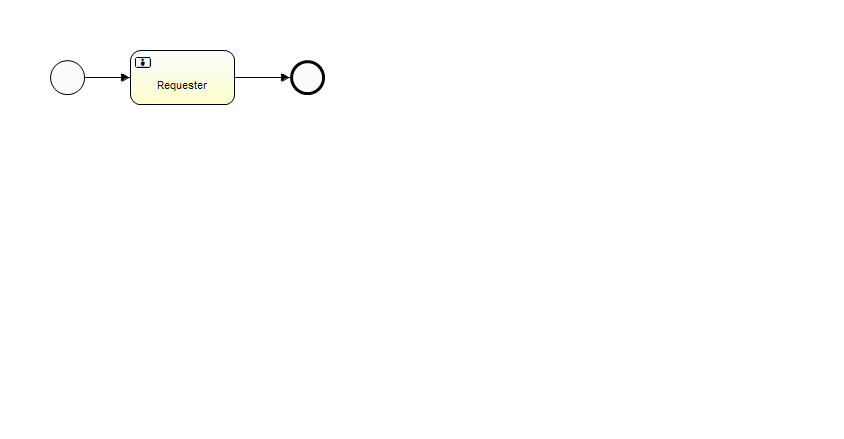
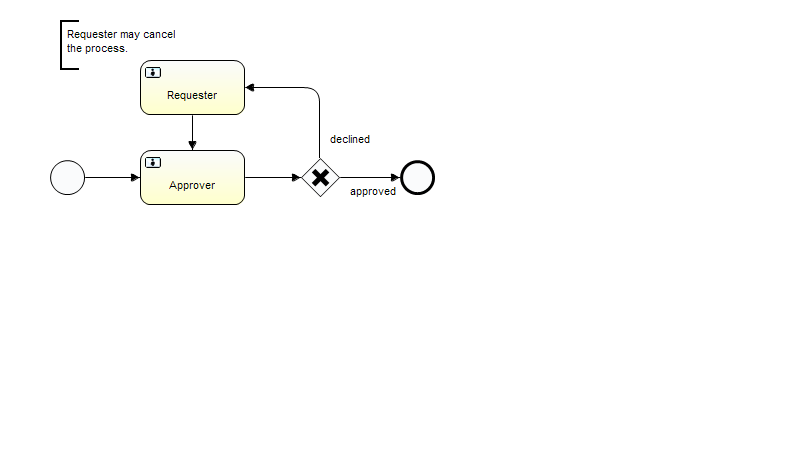
change application id after moving content | adjust forward & cancel process

diff --git a/src/test/java/org/agito/bpmo/test/ForwardBPMOTest.java b/src/test/java/org/agito/bpmo/test/ForwardBPMOTest.java
@@ -3,7 +3,6 @@ package org.agito.bpmo.test;
 import junit.framework.Assert;
 
 import org.agito.demo.howto.processchoices.forward.ForwardBPMO;
-import org.agito.demo.howto.processchoices.forward.ForwardBPMOAccess;
 import org.agito.demo.howto.processchoices.forward.ForwardBPMOLifecycle;
 import org.agito.demo.howto.processchoices.forward.ForwardBPMOProcessActivity;
 import org.junit.Rule;
@@ -25,14 +24,21 @@ public class ForwardBPMOTest {
 	public void testForwardBPMONew() {
 
 		// create bpmo
-		IBPMO bpmo = bpmoRule.getRuntimeService().createBPMO(ForwardBPMO.$BPMO,
-				ForwardBPMOLifecycle.New, "001");
-		ForwardBPMOAccess forwardBPMOAccess = new ForwardBPMOAccess(bpmo.getBPMOData());
-		bpmo.startProcess();
-		bpmo.claimTaskInstance(ForwardBPMOProcessActivity.Requester);
+		IBPMO bpmo = bpmoRule.getRuntimeService().createBPMO(ForwardBPMO.$BPMO, ForwardBPMOLifecycle.New, "001");
 
-		// complete task using a choice.
-		bpmo.completeTaskInstance("Complete", null);
+		bpmo.startProcess();
+
+		// complete approver task using choice 'Decline'.
+		bpmo.claimTaskInstance(ForwardBPMOProcessActivity.Approver);
+		bpmo.completeTaskInstance("Decline", "Rework");
+
+		// complete requester task
+		bpmo.claimTaskInstance(ForwardBPMOProcessActivity.Requester);
+		bpmo.completeTaskInstance();
+
+		// complete approver task using choice 'Approve'.
+		bpmo.claimTaskInstance(ForwardBPMOProcessActivity.Approver);
+		bpmo.completeTaskInstance("Approve", null);
 
 		// assertion
 		ProcessHistory historyItem = bpmoRule.getRuntimeService()

diff --git a/src/test/java/org/agito/bpmo/test/CancelBPMOTest.java b/src/test/java/org/agito/bpmo/test/CancelBPMOTest.java
@@ -25,23 +25,23 @@ public class CancelBPMOTest {
 
 		// create bpmo
 		IBPMO bpmo = bpmoRule.getRuntimeService().createBPMO(CancelBPMO.$BPMO, CancelBPMOLifecycle.New, "001");
-		CancelBPMOAccess cancelBPMOAccess = new CancelBPMOAccess(bpmo.getBPMOData());
 
 		bpmo.startProcess();
-		bpmo.claimTaskInstance(CancelBPMOProcessActivity.Requester);
-		
+		bpmo.claimTaskInstance(CancelBPMOProcessActivity.Approver);
+		bpmo.completeTaskInstance("Decline", "Rework");
+
 		// complete task with choice "Cancel"
+		bpmo.claimTaskInstance(CancelBPMOProcessActivity.Requester);
 		bpmo.completeTaskInstance("Cancel", "Comment for Cancel Choice Test");
-		
+
 		ProcessHistory historyItem = bpmoRule.getRuntimeService()
 				.createProcessHistoryQuery()
 				.bpmoUuid(bpmo.getBPMOHeader().getBPMOUuid())
 				.eventType(ProcessAgentEventType.PROCESS_CANCEL).singleResult();
 		Assert.assertNotNull(historyItem);
-		Assert.assertEquals("Comment for Cancel Choice Test", historyItem.getCommentText());
+		Assert.assertEquals("Comment for Cancel Choice Test",
+				historyItem.getCommentText());
 
 	}
 
 }
-
-

diff --git a/src/main/java/org/agito/demo/howto/processchoices/forward/ForwardBPMOLifecycle.java b/src/main/java/org/agito/demo/howto/processchoices/forward/ForwardBPMOLifecycle.java
@@ -11,7 +11,7 @@ import de.agito.cps.core.bpmo.api.enums.ILifecycle;
  */
 public enum ForwardBPMOLifecycle implements ILifecycle {
 
-	New(false, "BPMOHowtoProcessChoices_ForwardProcess");
+	New(false, "BPMOHowto_ForwardProcess");
 
 	private ForwardBPMOLifecycle(boolean supportsOriginalValue, String processDefinitionId) { this.supportsOriginalValue = supportsOriginalValue; this.processDefinitionId = processDefinitionId; }
 	private boolean supportsOriginalValue;

diff --git a/src/main/java/org/agito/demo/howto/processchoices/message/MessageBPMOLifecycle.java b/src/main/java/org/agito/demo/howto/processchoices/message/MessageBPMOLifecycle.java
@@ -11,7 +11,7 @@ import de.agito.cps.core.bpmo.api.enums.ILifecycle;
  */
 public enum MessageBPMOLifecycle implements ILifecycle {
 
-	New(false, "BPMOHowtoProcessChoices_MessageProcess");
+	New(false, "BPMOHowto_MessageProcess");
 
 	private MessageBPMOLifecycle(boolean supportsOriginalValue, String processDefinitionId) { this.supportsOriginalValue = supportsOriginalValue; this.processDefinitionId = processDefinitionId; }
 	private boolean supportsOriginalValue;

diff --git a/src/main/java/org/agito/demo/howto/processchoices/cancel/CancelBPMOLifecycle.java b/src/main/java/org/agito/demo/howto/processchoices/cancel/CancelBPMOLifecycle.java
@@ -11,7 +11,7 @@ import de.agito.cps.core.bpmo.api.enums.ILifecycle;
  */
 public enum CancelBPMOLifecycle implements ILifecycle {
 
-	New(false, "BPMOHowtoProcessChoices_CancelProcess");
+	New(false, "BPMOHowto_CancelProcess");
 
 	private CancelBPMOLifecycle(boolean supportsOriginalValue, String processDefinitionId) { this.supportsOriginalValue = supportsOriginalValue; this.processDefinitionId = processDefinitionId; }
 	private boolean supportsOriginalValue;

diff --git a/src/main/java/org/agito/demo/howto/processchoices/signal/SignalBPMOLifecycle.java b/src/main/java/org/agito/demo/howto/processchoices/signal/SignalBPMOLifecycle.java
@@ -11,7 +11,7 @@ import de.agito.cps.core.bpmo.api.enums.ILifecycle;
  */
 public enum SignalBPMOLifecycle implements ILifecycle {
 
-	New(false, "BPMOHowtoProcessChoices_SignalProcess");
+	New(false, "BPMOHowto_SignalProcess");
 
 	private SignalBPMOLifecycle(boolean supportsOriginalValue, String processDefinitionId) { this.supportsOriginalValue = supportsOriginalValue; this.processDefinitionId = processDefinitionId; }
 	private boolean supportsOriginalValue;

diff --git a/src/main/java/org/agito/demo/howto/processchoices/forward/ForwardBPMOProcessActivity.java b/src/main/java/org/agito/demo/howto/processchoices/forward/ForwardBPMOProcessActivity.java
@@ -12,7 +12,8 @@ import de.agito.cps.core.bpmo.api.enums.IProcessActivity;
 public enum ForwardBPMOProcessActivity implements IProcessActivity {
 
 	$DRAFT,
-	Requester;
+	Requester,
+	Approver;
 
 }
 

diff --git a/src/main/java/org/agito/demo/howto/processchoices/cancel/CancelBPMOProcessActivity.java b/src/main/java/org/agito/demo/howto/processchoices/cancel/CancelBPMOProcessActivity.java
@@ -12,7 +12,8 @@ import de.agito.cps.core.bpmo.api.enums.IProcessActivity;
 public enum CancelBPMOProcessActivity implements IProcessActivity {
 
 	$DRAFT,
-	Requester;
+	Requester,
+	Approver;
 
 }
 
